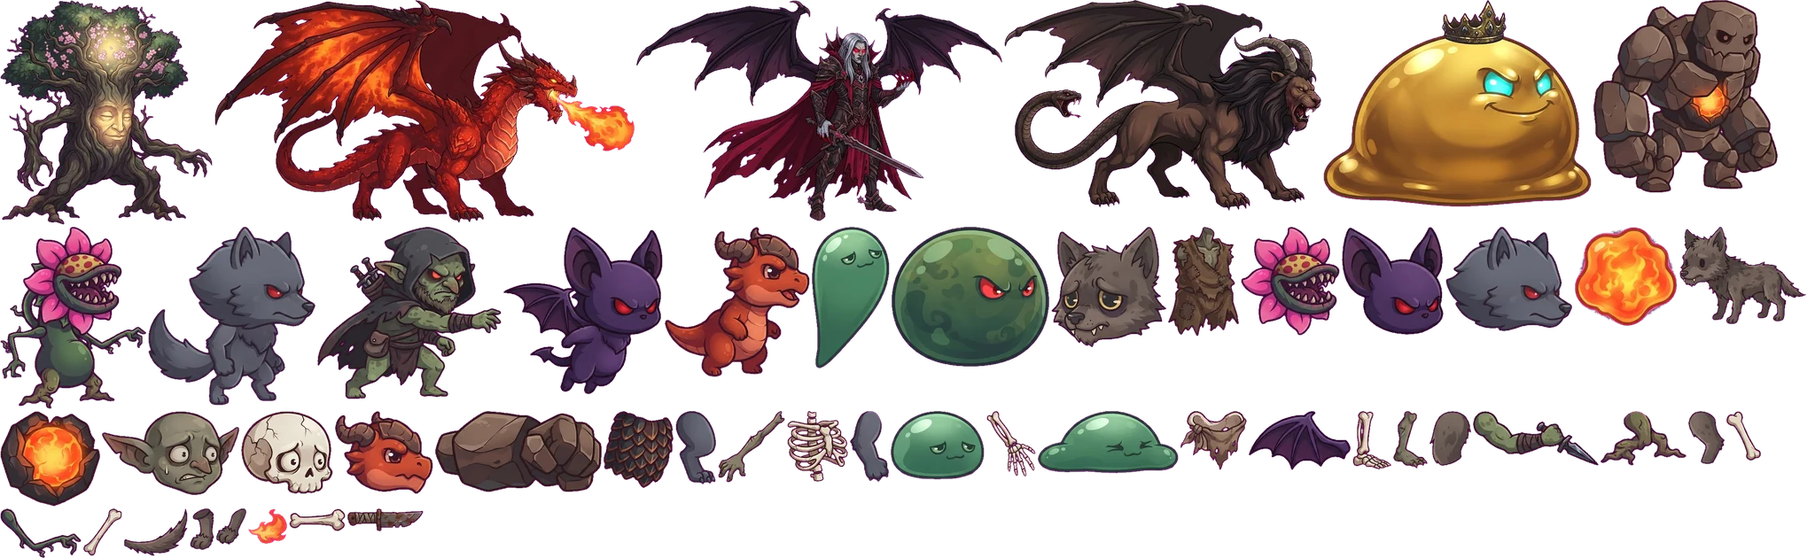
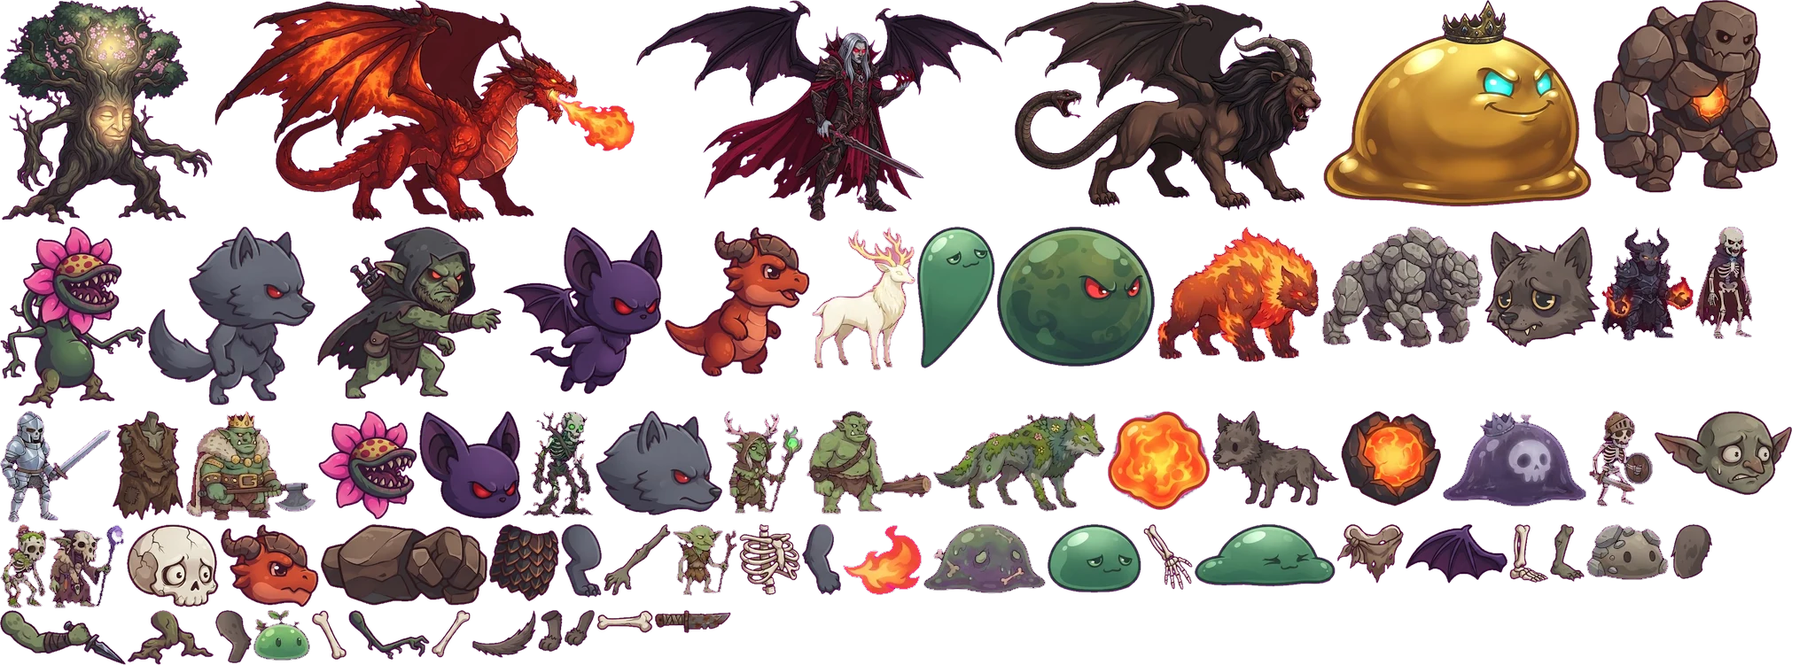
Bone to Beast: evolution trees by blood type (24 forms) replace part grafting
Claude-Session: https://claude.ai/code/session_01VuDiQoiwkAwkour2auYRX7

diff --git a/bone-to-beast/index.html b/bone-to-beast/index.html
@@ -31,9 +31,9 @@ button:focus-visible{outline:3px solid #fff;outline-offset:3px}
 .card b{font-size:18px}.card span{font-size:13px;color:var(--muted);line-height:1.35}
 .card em{font-style:normal;font-size:11px;font-weight:900;color:var(--c);letter-spacing:1px;text-transform:uppercase}
 .dex{display:flex;gap:10px;flex-wrap:wrap;justify-content:center;max-width:900px}
-.dex div{width:150px;background:var(--card);border:2px solid var(--line);border-radius:14px;padding:8px;font-size:12px;color:var(--muted)}
+.dex div{width:118px;background:var(--card);border:2px solid var(--line);border-radius:14px;padding:8px;font-size:12px;color:var(--muted)}
 .dex div b{display:block;color:var(--ink);font-size:14px}
-.dex canvas{width:80px;height:80px;display:block;margin:0 auto}
+.dex canvas{width:70px;height:70px;display:block;margin:0 auto}
 .keys{font-size:13px}
 .tc{position:fixed;bottom:max(8px,env(safe-area-inset-bottom));display:none;gap:12px}
 .tc button{width:72px;height:72px;border-radius:50%;border:3px solid rgba(255,255,255,.4);background:rgba(255,255,255,.12);color:#fff;font:inherit;font-weight:900;font-size:22px}
@@ -48,12 +48,12 @@ button:focus-visible{outline:3px solid #fff;outline-offset:3px}
 <div class="tc r" id="tcr" hidden><button data-k="S" type="button" aria-label="Skill" class="sk">SKILL</button><button data-k="J" type="button" aria-label="Jump" class="jp">▲</button><button data-k="A" type="button" aria-label="Attack" class="red big">⚔</button></div>
 <div class="over dim" id="title">
   <h1>BONE TO <span>BEAST</span></h1>
-  <p data-t="intro">Defeat monsters, drink their blood, graft their parts onto your body.<br>Find the right mix and awaken into a legend.</p>
+  <p data-t="intro">Defeat monsters and drink their blood.<br>The blood you gather decides what you evolve into.</p>
   <button class="btn alt" id="lang" type="button" style="font-size:14px;padding:6px 16px;min-height:36px">日本語 / English</button>
   <h3 data-t="Choose how you rise">Choose how you rise</h3>
   <div class="cards" id="starters"></div>
   <p class="keys" id="keysP"></p>
-  <h3><span data-t="Legends discovered">Legends discovered</span> <span id="dexN"></span></h3>
+  <h3><span data-t="Evolution book">Evolution book</span> <span id="dexN"></span></h3>
   <div class="dex" id="dex"></div>
   <p id="hi"></p>
 </div>
@@ -94,11 +94,42 @@ var ULT={
  tree:{name:'Divine Tree',col:'#7ad15a',hint:'Vine Arms + Root Legs + Bloom Crown',desc:'Roots strike from below and it heals. Skill: Sacred Bloom.',cond:function(P){return P.arms==='plantArms'&&P.legs==='plantLegs'&&P.head==='plantHead';}},
  chimera:{name:'Chimera',col:'#d9a441',hint:'Parts from 4 different creatures',desc:'Lion, goat and serpent in one. Skill: Roar.',cond:function(P){var s={};for(var k in P)s[PARTS[P[k]].sp]=1;return Object.keys(s).length>=4;}}};
 var ULTORDER=['dragon','vampire','orichalcum','tree','chimera'];
+var EL={grass:{col:'#6cc552',en:'Wild',ja:'森'},rock:{col:'#c08a52',en:'Stone',ja:'岩'},dark:{col:'#a46bff',en:'Dark',ja:'闇'}};
+var ELOF={slime:'grass',plant:'grass',golem:'rock',goblin:'rock',bat:'dark',wolf:'dark',drake:'dark'};
+var TREE={slime:{grass:['slGrass','tree'],rock:['slRock','orichalcum'],dark:['slZombie','slDeath']},bone:{grass:['skMoss','skWraith'],rock:['skKnight','skSteel'],dark:['skVamp','vampire']},
+  goblin:{grass:['gbForest','gbDruid'],rock:['gbHob','gbKing'],dark:['gbShaman','gbDemon']},beast:{grass:['bsForest','bsSacred'],rock:['bsRock','chimera'],dark:['bsFire','dragon']}};
+// id:[art,height,en,ja,descEn,descJa,hp,skill,stats]
+var FD={
+ slGrass:['fSlGrass',34,'Sprout Slime','草スライム','Heals over time. Skill: Bloom.','どんどん回復する。スキル：開花',50,'Bloom',{kind:'slam',dmg:16,rate:0.4,range:76,regen:4}],
+ slRock:['fSlRock',34,'Rock Slime','岩スライム','Hard shell, heavy body slams. Skill: Ground Slam.','かたい岩の体で体当たり。スキル：地面たたき',80,'Ground Slam',{kind:'slam',dmg:22,rate:0.5,range:82,armor:0.7}],
+ slZombie:['fSlZombie',36,'Zombie Slime','ゾンビスライム','Drains life with each hit. Skill: Screech.','攻撃で体力を吸う。スキル：超音波',45,'Screech',{kind:'slam',dmg:17,rate:0.38,range:76,life:0.12}],
+ slDeath:['fSlDeath',62,'Wraith Slime','死霊スライム','Souls hunt your foes. Skill: Soul Swarm.','魂が敵を追いかける。スキル：魂の群れ',220,'Bat Swarm',{kind:'slam',dmg:32,rate:0.32,range:118,life:0.2,armor:0.6,maxJumps:2}],
+ skMoss:['fSkMoss',64,'Moss Skeleton','苔ガイコツ','Vine whip with long reach. Heals.','長いツタのムチ。少し回復',45,'Bloom',{kind:'whip',dmg:15,rate:0.4,range:112,regen:3}],
+ skWraith:['fSkWraith',88,'Forest Wraith','森の亡者','Roots strike from below. Skill: Sacred Bloom.','地面から根で攻撃。スキル：聖なる開花',190,'Sacred Bloom',{kind:'roots',dmg:26,rate:0.4,range:390,regen:6,noKB:true}],
+ skKnight:['fSkKnight',66,'Bone Knight','骨騎士','Sword and shield. Takes less damage.','剣と盾。受けるダメージが減る',65,'Ground Slam',{kind:'swing',dmg:22,rate:0.4,range:82,armor:0.7}],
+ skSteel:['fSkSteel',84,'Steel Bone Knight','鋼の骨騎士','Huge sword swings, iron defense.','大剣で薙ぎ払う。鉄壁の守り',240,'Ground Slam',{kind:'swing',dmg:40,rate:0.42,range:104,kb:600,heavy:true,armor:0.5}],
+ skVamp:['fSkVamp',70,'Blood Bones','吸血骨','Fast claws that drain life. Double jump.','すばやい爪で血を吸う。2段ジャンプ',45,'Screech',{kind:'claw',dmg:16,rate:0.24,range:66,life:0.18,maxJumps:2,spd:270}],
+ gbForest:['fGbForest',56,'Forest Goblin','森ゴブリン','Staff whip with long reach.','杖のムチで遠くまで届く',45,'Bloom',{kind:'whip',dmg:14,rate:0.32,range:106,regen:2}],
+ gbDruid:['fGbDruid',74,'Goblin Druid','ゴブリンドルイド','Calls roots from the ground. Heals.','地面から根を呼ぶ。回復する',180,'Sacred Bloom',{kind:'roots',dmg:24,rate:0.38,range:400,regen:6}],
+ gbHob:['fGbHob',70,'Hobgoblin','ホブゴブリン','Big club, heavy hits.','大きなこん棒で重い一撃',75,'Ground Slam',{kind:'punch',dmg:26,rate:0.5,range:80,kb:520,heavy:true,armor:0.8,spd:220}],
+ gbKing:['fGbKing',86,'Goblin King','ゴブリンキング','Crushing axe. Skill: Roar.','斧で叩き潰す。スキル：咆哮',250,'Roar',{kind:'punch',dmg:44,rate:0.48,range:98,kb:650,heavy:true,armor:0.55,spd:230}],
+ gbShaman:['fGbShaman',66,'Goblin Shaman','呪術ゴブリン','Shoots dark magic bolts.','闇の魔法弾を撃つ',35,'Screech',{ranged:true,shot:'magic',dmg:15,rate:0.32}],
+ gbDemon:['fGbDemon',84,'Demon Goblin','魔王ゴブリン','Hurls fireballs. Skill: Meteor Dive.','火の玉を投げる。スキル：メテオダイブ',190,'Meteor Dive',{ranged:true,shot:'fireball',dmg:28,rate:0.24,armor:0.6,maxJumps:2}],
+ bsForest:['fBsForest',44,'Forest Wolf','森の獣','Fast bites, heals over time.','すばやく噛みつき、回復する',45,'Pounce',{kind:'bite',dmg:18,rate:0.28,range:72,regen:3,spd:310}],
+ bsSacred:['fBsSacred',84,'Sacred Stag','聖獣','Holy antlers. Skill: Sacred Bloom.','聖なる角で突く。スキル：聖なる開花',190,'Sacred Bloom',{kind:'maul',dmg:28,rate:0.24,range:84,regen:6,spd:330,maxJumps:2}],
+ bsRock:['fBsRock',50,'Stone Beast','岩の獣','Heavy bites, stone armor.','重い噛みつき、岩の鎧',80,'Ground Slam',{kind:'bite',dmg:24,rate:0.4,range:72,armor:0.7,heavy:true,spd:250}],
+ bsFire:['fBsFire',50,'Flame Beast','火の獣','Burning bites. Skill: Fire Breath.','燃える牙。スキル：火炎ブレス',50,'Fire Breath',{kind:'bite',dmg:20,rate:0.28,range:72,spd:310,burn:true}]};
+var FORMS={};for(var fk in FD){var d=FD[fk];FORMS[fk]={art:d[0],h:d[1],en:d[2],ja:d[3],den:d[4],dja:d[5],hp:d[6],skill:d[7],s:d[8]};}
+ULTORDER.forEach(function(u){FORMS[u]={ult:true,hp:0};});
+function fName(id){var f=FORMS[id];return f.ult?ULT[id].name:LANG==='ja'?f.ja:f.en;}
+function fDesc(id){var f=FORMS[id];return f.ult?ULT[id].desc:LANG==='ja'?f.dja:f.den;}
+function fCol(id){if(!id)return '#e9e4d4';if(FORMS[id].ult)return ULT[id].col;for(var st in TREE)for(var el in TREE[st])if(TREE[st][el].indexOf(id)>=0)return EL[el].col;return '#e9e4d4';}
+function fStage(id){for(var st in TREE)for(var el in TREE[st]){var i=TREE[st][el].indexOf(id);if(i>=0)return i+2;}return 1;}
 var ENEMY={slime:{hp:26,spd:60,dmg:8,pts:10,w:30,h:26},wolf:{hp:24,spd:170,dmg:10,pts:15,w:30,h:38},bat:{hp:14,spd:120,dmg:6,pts:12,w:28,h:26,fly:1},goblin:{hp:24,spd:90,dmg:7,pts:18,w:30,h:36},
   golem:{hp:90,spd:45,dmg:18,pts:40,w:50,h:62},plant:{hp:30,spd:30,dmg:8,pts:16,w:30,h:44},drake:{hp:34,spd:140,dmg:11,pts:24,w:34,h:34}};
 /*i18n*/
 var LANG=store.get('lang',(navigator.language||'').slice(0,2)==='ja'?'ja':'en');
-var JA={intro:'モンスターを倒して血を集め、その部位を自分の体に移植しよう。<br>組み合わせ次第で伝説の姿に覚醒する！','Choose how you rise':'はじめの姿をえらぶ','Legends discovered':'発見した伝説','Rise again':'もう一度','Change start':'キャラを変える',
+var JA={intro:'モンスターを倒して血を集めよう。<br>集めた血の種類で、進化先が変わる！','Choose how you rise':'はじめの姿をえらぶ','Legends discovered':'進化図鑑','Evolution book':'進化図鑑','Rise again':'もう一度','Change start':'キャラを変える',
  'Walk right →':'右へ進め →','Wave':'ウェーブ','Score':'スコア','GO →':'進め →','The blood calls…':'血が呼んでいる…','Choose a part to graft onto your body':'体に移植する部位をえらぼう','replaces':'交換：',
  'Your blood awakens…':'血が目覚める…','Your body is ready to become a legend':'伝説の姿に覚醒できる！','Legend':'伝説','[1] Awaken':'[1] 覚醒する','Not yet':'まだしない','Keep grafting parts':'部位の移植を続ける',
  'BLOOD':'血','✦ LEGEND AWAKENED':'✦ 伝説に覚醒','Half Beast':'半獣','Beast':'魔獣','No grafts':'移植なし','New best!':'自己ベスト！','Best':'ベスト','Hint: ':'ヒント：','Best score: ':'ベストスコア：',
@@ -131,7 +162,7 @@ function snd(k){try{AC=AC||new (window.AudioContext||window.webkitAudioContext)(
 var GROUND=0,GRAV=1900,G=null,keys={},tch={},hi=store.get('hi',0),dex=store.get('dex',{});
 function chunkPlats(ci){var r=ci*7919+13,out=[];function rnd(){r=(r*1664525+1013904223)>>>0;return r/4294967296;}
   var n=ci===0?1:2+Math.floor(rnd()*2);for(var i=0;i<n;i++)out.push({x:ci*900+120+rnd()*600,y:-(90+rnd()*130),w:120+rnd()*120});return out;}
-function newGame(st){G={t:0,state:'play',starter:st,ult:null,score:0,kills:0,en:[],shots:[],eshots:[],orbs:[],fx:[],texts:[],blood:{},need:5,parts:{},plats:[],chunks:0,cam:{x:0,y:-150},
+function newGame(st){G={t:0,state:'play',starter:st,ult:null,form:null,stage:1,el:null,score:0,kills:0,en:[],shots:[],eshots:[],orbs:[],fx:[],texts:[],blood:{},need:6,parts:{},plats:[],chunks:0,cam:{x:0,y:-150},
   wave:0,lock:null,shake:0,flash:0,banner:'',bannerT:0,history:[],
   p:{x:80,y:0,vx:0,vy:0,w:24,h:62,face:1,ground:true,jumps:0,hp:STARTERS[st].hp,max:STARTERS[st].hp,inv:0,atkT:0,combo:0,comboT:0,swing:0,cd:0,walk:0,glide:false,dash:0,hit:[],still:0}};
   for(var c=0;c<3;c++)addChunk();setBanner(L('Walk right →'));}
@@ -150,14 +181,15 @@ function stat(){var P=G.parts,st=G.starter,u=G.ult,s={spd:STARTERS[st].spd,jump:
   if(P.head==='wolfHead')s.bite=true;
   if(P.core==='slimeCore')s.regen+=3;if(P.core==='golemCore')s.armor=0.7;if(P.core==='drakeScales')s.armor=0.75;
   s.dmg*=1+Object.keys(P).length*0.08;
+  if(G.form&&!u){var fo=FORMS[G.form].s;for(var q in fo)s[q]=fo[q];}
   if(u==='dragon'){s.spd=260;s.maxJumps=99;s.kind='breath';s.dmg=16;s.rate=0.16;s.range=150;s.armor=0.6;}
   if(u==='vampire'){s.spd=310;s.maxJumps=3;s.kind='claw';s.dmg=20;s.rate=0.2;s.range=62;s.life=0.3;}
   if(u==='orichalcum'){s.spd=240;s.kind='slam';s.dmg=34;s.rate=0.5;s.range=92;s.armor=0.4;s.regen=4;s.jump=820;}
   if(u==='tree'){s.spd=180;s.kind='roots';s.dmg=26;s.rate=0.42;s.range=420;s.regen=8;s.noKB=true;s.armor=0.7;}
   if(u==='chimera'){s.spd=300;s.maxJumps=2;s.kind='maul';s.dmg=24;s.rate=0.24;s.range=70;s.life=0.1;s.jump=820;}
-  if(u)s.dmg*=1+G.wave*0.02;return s;}
+  if(G.stage===3)s.dmg*=1+G.wave*0.02;return s;}
 function maxHp(){var m=STARTERS[G.starter].hp+Object.keys(G.parts).length*10;if(G.parts.core==='golemCore')m+=60;if(G.parts.core==='drakeScales')m+=40;
-  if(G.ult)m+={dragon:160,vampire:90,orichalcum:260,tree:300,chimera:160}[G.ult];return m;}
+  if(G.ult)m+={dragon:160,vampire:90,orichalcum:260,tree:300,chimera:160}[G.ult];else if(G.form)m+=FORMS[G.form].hp;return m;}
 // ======================= waves =======================
 function startWave(){G.wave++;var w=G.wave,pool=['slime','bat','goblin'];if(w>=2)pool.push('wolf','plant');if(w>=3)pool.push('golem');if(w>=4)pool.push('drake');
   G.lock={x:G.cam.x,q:[],t:0};var boss=w%5===0,n=boss?5:4+Math.floor(w*1.7);
@@ -175,19 +207,20 @@ function hurtEnemy(e,dmg,kx,ky,quiet){if(e.dead)return;e.hp-=dmg;e.hit=0.1;e.vx+
   var s=stat();if(s.life&&!quiet){G.p.hp=Math.min(G.p.max,G.p.hp+dmg*s.life);}if(e.hp<=0)kill(e);}
 function kill(e){e.dead=true;G.kills++;G.score+=Math.round(ENEMY[e.sp].pts*(e.boss?10:1)*(1+G.wave*0.1));snd('kill');G.shake=Math.max(G.shake,e.boss?16:6);
   for(var i=0;i<16;i++)G.fx.push({x:e.x,y:e.y-e.h/2,vx:(Math.random()-0.5)*420,vy:-Math.random()*380,l:0.6,c:i%2?COL[e.sp]:'#d6334a',s:3+Math.random()*4,g:1});
-  if(G.ult)return; // after awakening, blood only feeds score
-  var n=e.boss?10:1;for(var k=0;k<n;k++)G.orbs.push({sp:e.sp,x:e.x,y:e.y-e.h/2,vx:(Math.random()-0.5)*300,vy:-200-Math.random()*200,t:0});}
+  if(G.stage>=3)return; // final form: blood only feeds score
+  if(G.stage===2&&ELOF[e.sp]!==G.el&&Math.random()<0.5)return;
+  var n=e.boss?10:1;for(var k=0;k<n;k++)G.orbs.push({sp:e.sp,el:ELOF[e.sp],x:e.x,y:e.y-e.h/2,vx:(Math.random()-0.5)*300,vy:-200-Math.random()*200,t:0});}
 function hurtHero(d,fromX,src){var p=G.p,s=stat();if(p.inv>0||p.dash>0)return;d*=s.armor;p.hp-=d;p.inv=0.8;if(!s.noKB){p.vx=(p.x<fromX?-1:1)*300;p.vy=-300;p.ground=false;}G.shake=10;G.flash=0.25;snd('hurt');
-  if(G.parts.core==='drakeScales'&&src&&!src.dead){src.burn=3;}
+  
   if(p.hp<=0){p.hp=0;over();}}
-function heroBox(){var p=G.p,h=G.ult?80:G.starter==='beast'?42:G.starter==='slime'?32:62;return {x:p.x,y:p.y,w:G.ult?40:p.w,h:h};}
+function heroBox(){var p=G.p,h=G.ult?80:G.form?Math.min(80,FORMS[G.form].h*0.85):G.starter==='beast'?42:G.starter==='slime'?32:62;return {x:p.x,y:p.y,w:G.ult||G.stage===3?40:p.w+4,h:h};}
 // ======================= hero actions =======================
 function jump(){var p=G.p,s=stat();if(p.ground){p.vy=-s.jump;p.ground=false;p.jumps=1;snd('jump');}else if(p.jumps<s.maxJumps){p.vy=-s.jump*(G.ult==='dragon'?0.6:0.9);p.jumps++;snd('jump');for(var i=0;i<6;i++)G.fx.push({x:p.x,y:p.y-20,vx:(Math.random()-0.5)*200,vy:Math.random()*120,l:0.3,c:G.ult?ULT[G.ult].col:COL.bat,s:3});}}
 function meleeHit(range,dmg,kb,up,hb,col,w){var p=G.p,b={x:p.x+p.face*(range*0.5+10),y:p.y-4,w:range+20,h:hb||heroBox().h+16};
   G.en.forEach(function(e){if(overlap(b,e))hurtEnemy(e,dmg,p.face*kb,up);});G.eshots.forEach(function(sh){if(Math.abs(sh.x-b.x)<b.w/2+sh.r&&Math.abs(sh.y-(b.y-b.h/2))<b.h/2+sh.r)sh.dead=1;});G.fx.push({arc:1,x:p.x,y:p.y-heroBox().h*0.55,face:p.face,R:range+10,l:0.16,L:0.16,c:col,w:w||1});}
 function attack(){var p=G.p,s=stat();if(p.atkT>0)return;p.atkT=s.rate;p.swing=0.2;if(p.comboT>0)p.combo=(p.combo+1)%3;else p.combo=0;p.comboT=0.6;var c3=p.combo===2;snd('swing');
   var k=s.kind;
-  if(s.ranged){G.shots.push({x:p.x+p.face*20,y:p.y-38,vx:p.face*620,vy:-30,dmg:s.dmg,l:0.9,r:6,kind:'dagger',hitL:[]});return;}
+  if(s.ranged){G.shots.push({x:p.x+p.face*20,y:p.y-heroBox().h*0.6,vx:p.face*(s.shot?520:620),vy:s.shot?0:-30,dmg:s.dmg,l:0.9,r:s.shot?9:6,kind:s.shot||'dagger',hitL:[],pierce:s.shot==='fireball'?2:0});return;}
   if(k==='breath'){snd('fire');for(var i=0;i<3;i++)G.shots.push({x:p.x+p.face*36,y:p.y-62,vx:p.face*(420+i*80),vy:(i-1)*60+40,dmg:s.dmg*0.6,l:0.4,r:12,kind:'fire',hitL:[],pierce:3});return;}
   if(k==='roots'){var best=null,bd=s.range;G.en.forEach(function(e){var d=Math.abs(e.x-p.x);if(d<bd&&e.y>-200){bd=d;best=e;}});if(!best){p.atkT=0.1;return;}
     G.fx.push({spike:1,x:best.x,y:GROUND,l:0.4,L:0.4,c:'#7a5a3a'});hurtEnemy(best,s.dmg,0,-520);best.ground=false;return;}
@@ -195,10 +228,11 @@ function attack(){var p=G.p,s=stat();if(p.atkT>0)return;p.atkT=s.rate;p.swing=0.
   if(k==='whip'){meleeHit(s.range,s.dmg*(c3?1.3:1),180,-100,40,'#5fae4a',0.7);return;}
   if(k==='claw'||k==='maul'){meleeHit(s.range,s.dmg*(c3?1.5:1),c3?460:200,c3?-300:-80,null,k==='claw'?'#ff3b5c':'#ffb347',1.2);
     if(k==='maul'&&c3){G.fx.push({ring:1,x:p.x+p.face*50,y:p.y-30,r:0,R:90,l:0.3,L:0.3,c:'#ff8c3a'});G.en.forEach(function(e){if(Math.abs(e.x-(p.x+p.face*50))<100)hurtEnemy(e,s.dmg*0.6,p.face*200,-200);});}return;}
+  if(s.burn)G.en.forEach(function(e){if(Math.abs(e.x-p.x)<s.range+20)e.burn=Math.max(e.burn||0,1.5);});
   var bite=s.bite&&c3,dm=s.dmg*(bite?1.6:1)*(c3?1.3:1);
   meleeHit(s.range,dm,s.kb*(c3?1.5:1),s.heavy||c3?-260:-80,null,s.heavy?'#ffb070':bite||k==='bite'?'#ff6b80':'#e9e4d4',s.heavy?1.8:1);
   if(bite){p.hp=Math.min(p.max,p.hp+dm*0.25);G.texts.push({x:p.x,y:p.y-80,t:'+'+Math.round(dm*0.25),l:0.6,c:'#ff6b80'});}}
-function skillName(){var P=G.parts,u=G.ult,st=G.starter;if(u)return {dragon:'Meteor Dive',vampire:'Bat Swarm',orichalcum:'Golden Roll',tree:'Sacred Bloom',chimera:'Roar'}[u];
+function skillName(){var P=G.parts,u=G.ult,st=G.starter;if(G.form&&!u)return FORMS[G.form].skill;if(u)return {dragon:'Meteor Dive',vampire:'Bat Swarm',orichalcum:'Golden Roll',tree:'Sacred Bloom',chimera:'Roar'}[u];
   return P.head==='batHead'?'Screech':P.head==='drakeHead'?'Fire Breath':P.head==='plantHead'?'Bloom':P.arms==='golemArms'?'Ground Slam':P.arms==='goblinArms'||st==='goblin'?'Firebomb':P.legs==='wolfLegs'||st==='beast'?'Pounce':st==='slime'?'Regrow':'Bone Toss';}
 function skill(){var p=G.p,s=stat();if(p.cd>0||G.state!=='play')return;var n=skillName();snd('skill');
   if(n==='Screech'){p.cd=6;G.fx.push({cone:1,x:p.x,y:p.y-50,face:p.face,l:0.35,L:0.35});G.en.forEach(function(e){var dx=(e.x-p.x)*p.face;if(dx>0&&dx<340&&Math.abs((e.y-e.h/2)-(p.y-45))<160){e.stun=2.2;hurtEnemy(e,s.dmg*0.6,p.face*120,-60);}});}
@@ -217,30 +251,24 @@ function skill(){var p=G.p,s=stat();if(p.cd>0||G.state!=='play')return;var n=ski
 function slam(R,mul,col){var p=G.p,s=stat();p.slam=false;G.shake=18;G.fx.push({ring:1,x:p.x,y:p.y,r:0,R:R,l:0.35,L:0.35,c:col});
   if(p.meteor){p.meteor=false;snd('fire');for(var i=0;i<16;i++)G.fx.push({x:p.x,y:p.y-10,vx:(Math.random()-0.5)*600,vy:-Math.random()*400,l:0.7,c:i%2?'#ff8c3a':'#ffd34f',s:5,g:1});}
   G.en.forEach(function(e){if(Math.abs(e.x-p.x)<R+10&&Math.abs(e.y-p.y)<140){e.stun=1.2;hurtEnemy(e,s.dmg*mul,(e.x>p.x?1:-1)*380,-420);}});}
-// ======================= blood → grafts → awakening =======================
-function addBlood(sp){G.blood[sp]=(G.blood[sp]||0)+1;var tot=0;for(var k in G.blood)tot+=G.blood[k];if(tot>=G.need&&G.state==='play')offer();}
-function offer(){var sps=Object.keys(G.blood).sort(function(a,b){return G.blood[b]-G.blood[a];}),opts=[];
-  sps.forEach(function(sp){(BYSP[sp]||[]).forEach(function(k){if(G.parts[PARTS[k].slot]!==k&&opts.length<3&&opts.indexOf(k)<0)opts.push(k);});});
-  if(!opts.length){G.blood={};return;}
-  G.state='graft';$('graftT').textContent=L('The blood calls…');$('graftP').textContent=L('Choose a part to graft onto your body');var el=$('cards');el.innerHTML='';
-  opts.forEach(function(k,i){var Pt=PARTS[k],pp={};for(var s in G.parts)pp[s]=G.parts[s];pp[Pt.slot]=k;
-    var b=card(COL[Pt.sp],function(g){drawBody(g,{x:0,y:0,face:1,walk:0.6,swing:0,ground:true,h:62},pp,G.starter,null);},
-      '<em>'+L(Pt.slot)+(G.parts[Pt.slot]?' · '+L('replaces')+' '+PARTS[G.parts[Pt.slot]].name:'')+'</em><b>'+Pt.name+'</b><span>'+Pt.desc+'</span>'+hintFor(pp)+'<em>['+(i+1)+']</em>');
-    b.addEventListener('click',function(){graft(k);});el.appendChild(b);});
+// ======================= blood → evolution =======================
+function addBlood(el){G.blood[el]=(G.blood[el]||0)+1;var tot=0;for(var k in G.blood)tot+=G.blood[k];if(tot>=G.need&&G.state==='play')offer();}
+function formCard(id,i,lbl){var col=fCol(id);return card(col,function(g){drawFormFit(g,id,62,90);},'<em>'+lbl+'</em><b>'+fName(id)+'</b><span>'+fDesc(id)+'</span><em>['+(i+1)+']</em>');}
+function drawFormFit(g,id,maxH,maxW){if(FORMS[id].ult){var A=ULTART[id],a=ATLAS[A[0]],f=Math.min(maxH*1.4/A[1],maxW/(a[2]/a[3]*A[1]));g.scale(f,f);drawUlt(g,{x:0,y:0,face:1,walk:0.5,swing:0,ground:true},id,true);return;}
+  var F=FORMS[id],b=ATLAS[F.art],sc=Math.min(maxH*1.25/F.h,maxW/(b[2]/b[3]*F.h),1.3);g.scale(sc,sc);drawForm(g,{x:0,y:0,face:1,walk:0.5,swing:0,ground:true},id);}
+function offer(){var el=$('cards');el.innerHTML='';G.state='graft';
+  if(G.stage===1){var els=Object.keys(G.blood).sort(function(a,b){return G.blood[b]-G.blood[a];});
+    $('graftT').textContent=L('The blood calls…');$('graftP').textContent=LANG==='ja'?'どの血で進化する？':'Which blood will you evolve with?';
+    els.forEach(function(e,i){var id=TREE[G.starter][e][0],b=formCard(id,i,(LANG==='ja'?EL[e].ja+'の血':EL[e].en+' blood')+' ×'+G.blood[e]);b.addEventListener('click',function(){evolve(id,e);});el.appendChild(b);});}
+  else{var id2=TREE[G.starter][G.el][1];$('graftT').textContent=L('Your blood awakens…');$('graftP').textContent=L('Your body is ready to become a legend');
+    var b2=formCard(id2,0,L('Legend'));b2.classList.add('ult');b2.addEventListener('click',function(){evolve(id2,G.el);});el.appendChild(b2);
+    var n=document.createElement('button');n.type='button';n.className='card';n.style.minHeight='auto';n.innerHTML='<b>'+L('Not yet')+'</b><span>'+(LANG==='ja'?'今の姿で戦う':'Stay as you are')+'</span><em>[2]</em>';
+    n.addEventListener('click',function(){G.blood={};G.need+=8;$('graft').hidden=true;G.state='play';last=performance.now();});el.appendChild(n);}
   $('graft').hidden=false;focusFirst(el);}
-function hintFor(pp){var u=ultFor(pp,G.starter);return u?'<em style="color:'+ULT[u].col+'">✦ '+(LANG==='ja'?ULT[u].name+'に覚醒できる':'unlocks '+ULT[u].name)+'</em>':'';}
-function ultFor(P,st){for(var i=0;i<ULTORDER.length;i++)if(ULT[ULTORDER[i]].cond(P,st))return ULTORDER[i];return null;}
-function graft(k){var Pt=PARTS[k],p=G.p;G.parts[Pt.slot]=k;G.history.push(k);G.blood={};G.need=Math.round(G.need*1.3+3);var m=maxHp();p.max=m;p.hp=Math.min(m,p.hp+m*0.3);snd('graft');
-  burst(p.x,p.y-30,COL[Pt.sp],40);setBanner(LANG==='ja'?Pt.name+'を移植！':Pt.name+' grafted!');$('graft').hidden=true;
-  var u=ultFor(G.parts,G.starter);if(u){offerAwaken(u);return;}G.state='play';last=performance.now();}
-function offerAwaken(u){G.state='graft';var U=ULT[u];$('graftT').textContent=L('Your blood awakens…');$('graftP').textContent=L('Your body is ready to become a legend');var el=$('cards');el.innerHTML='';
-  var b=card(U.col,function(g){var A=ULTART[u],a=ATLAS[A[0]],f=Math.min(90/A[1],100/(a[2]/a[3]*A[1]));g.scale(f,f);drawUlt(g,{x:0,y:0,face:1,walk:0.5,swing:0,ground:true},u,true);},'<em>'+L('Legend')+'</em><b>'+U.name+'</b><span>'+U.desc+'</span><em>'+L('[1] Awaken')+'</em>');b.classList.add('ult');
-  b.addEventListener('click',function(){awaken(u);});el.appendChild(b);
-  var n=document.createElement('button');n.type='button';n.className='card';n.style.minHeight='auto';n.innerHTML='<b>'+L('Not yet')+'</b><span>'+L('Keep grafting parts')+'</span><em>[2]</em>';n.addEventListener('click',function(){$('graft').hidden=true;G.state='play';last=performance.now();});el.appendChild(n);
-  $('graft').hidden=false;focusFirst(el);}
-function awaken(u){G.ult=u;var p=G.p;p.max=maxHp();p.hp=p.max;snd('awaken');dex[u]=1;store.set('dex',dex);G.shake=24;
-  for(var i=0;i<4;i++)setTimeout(function(){burst(p.x,p.y-40,ULT[u].col,40);},i*120);G.fx.push({ring:1,x:p.x,y:p.y-40,r:0,R:420,l:0.8,L:0.8,c:ULT[u].col});
-  setBanner(LANG==='ja'?ULT[u].name+'に覚醒！':ULT[u].name.toUpperCase()+' AWAKENS');$('graft').hidden=true;G.state='play';last=performance.now();}
+function evolve(id,el){var p=G.p;G.form=id;G.el=el;G.stage=fStage(id);G.ult=FORMS[id].ult?id:null;G.history.push(id);G.blood={};G.need=16;
+  p.max=maxHp();p.hp=p.max;dex[id]=1;store.set('dex',dex);var col=fCol(id);snd(G.stage===3?'awaken':'graft');G.shake=G.stage===3?24:10;
+  for(var i=0;i<(G.stage===3?4:2);i++)setTimeout(function(){burst(p.x,p.y-40,col,40);},i*120);G.fx.push({ring:1,x:p.x,y:p.y-30,r:0,R:G.stage===3?420:220,l:0.8,L:0.8,c:col});
+  setBanner(LANG==='ja'?fName(id)+'に進化！':fName(id).toUpperCase()+'!');$('graft').hidden=true;G.state='play';last=performance.now();}
 function burst(x,y,c,n){for(var i=0;i<n;i++)G.fx.push({x:x,y:y,vx:(Math.random()-0.5)*500,vy:(Math.random()-0.5)*500,l:0.8,c:c,s:4+Math.random()*4});}
 function card(col,drawFn,html){var b=document.createElement('button');b.type='button';b.className='card';b.style.setProperty('--c',col);
   var c=document.createElement('canvas');c.width=c.height=260;b.appendChild(c);var g=c.getContext('2d');g.translate(130,225);g.scale(2.4,2.4);drawFn(g);b.insertAdjacentHTML('beforeend',html);return b;}
@@ -250,7 +278,7 @@ function update(dt){var p=G.p,s=stat();G.t+=dt;p.max=maxHp();var hb=heroBox();
   var mx=(keys.ArrowLeft||keys.KeyA||tch.L?-1:0)+(keys.ArrowRight||keys.KeyD||tch.R?1:0);
   if(p.dash>0){p.dash-=dt;G.en.forEach(function(e){if(p.hit.indexOf(e)<0&&overlap(hb,e)){p.hit.push(e);hurtEnemy(e,s.dmg*(G.ult==='orichalcum'?1.5:2),p.face*500,-300);}});if(Math.random()<0.7)G.fx.push({x:p.x,y:p.y-hb.h/2,vx:0,vy:0,l:0.2,c:G.ult==='orichalcum'?'rgba(243,198,74,.7)':'rgba(200,210,230,.6)',s:14});}
   else{var acc=p.ground?3000:1800;if(mx){p.vx+=mx*acc*dt;p.face=mx;}else p.vx*=Math.pow(p.ground?0.0005:0.2,dt);p.vx=Math.max(-s.spd,Math.min(s.spd,p.vx));}
-  var holdJump=keys.ArrowUp||keys.KeyW||keys.Space||tch.J,wings=G.parts.back==='batWings'||G.ult==='dragon'||G.ult==='vampire';p.glide=wings&&holdJump&&p.vy>0&&!p.ground;
+  var holdJump=keys.ArrowUp||keys.KeyW||keys.Space||tch.J,wings=G.ult==='dragon'||G.ult==='vampire'||G.form==='skVamp';p.glide=wings&&holdJump&&p.vy>0&&!p.ground;
   p.vy+=GRAV*dt*(p.glide?0.18:1);if(p.glide)p.vy=Math.min(p.vy,G.ult==='dragon'?60:140);
   var oy=p.y;p.x+=p.vx*dt;p.y+=p.vy*dt;
   var minX=G.lock?G.lock.x-W/Z/2+20:Math.max(20,G.cam.x-W/Z/2+20),maxX=G.lock?lockR():1e9;p.x=Math.max(minX,Math.min(maxX,p.x));p.y=Math.max(p.y,-H/Z*0.85);
@@ -281,7 +309,7 @@ function update(dt){var p=G.p,s=stat();G.t+=dt;p.max=maxHp();var hb=heroBox();
     var eoy=e.y;e.x+=e.vx*dt;e.y+=e.vy*dt;e.ground=false;if(e.y>=GROUND){e.y=GROUND;e.vy=0;e.ground=true;}
     if(!E.fly)G.plats.forEach(function(pl){if(e.vy>=0&&eoy<=pl.y&&e.y>=pl.y&&e.x>pl.x&&e.x<pl.x+pl.w){e.y=pl.y;e.vy=0;e.ground=true;}});
     if(G.lock){var lo=G.lock.x-W/Z/2+20,hi2=lockR()+15;if(!e.inside&&e.x>lo&&e.x<hi2)e.inside=1;if(e.inside)e.x=Math.max(lo,Math.min(hi2,e.x));else e.x=Math.max(lo-80,Math.min(hi2+80,e.x));}
-    var bouncy=G.parts.core==='slimeCore'||G.ult==='orichalcum'||G.starter==='slime'&&!G.ult;
+    var bouncy=G.starter==='slime';
     if(bouncy&&p.vy>200&&Math.abs(p.x-e.x)<e.w/2+12&&p.y>e.y-e.h-8&&p.y<e.y-e.h+22){p.vy=-650;hurtEnemy(e,s.dmg*1.2,0,-100);}
     else if(e.stun<=0&&overlap(hb,e))hurtHero(e.dmg,e.x,e);});
   G.en=G.en.filter(function(e){return !e.dead;});
@@ -295,7 +323,7 @@ function update(dt){var p=G.p,s=stat();G.t+=dt;p.max=maxHp();var hb=heroBox();
   G.shots=G.shots.filter(function(x){return !x.dead;});
   G.eshots.forEach(function(sh){if(sh.g)sh.vy+=GRAV*0.4*dt;sh.x+=sh.vx*dt;sh.y+=sh.vy*dt;sh.l-=dt;if(Math.abs(sh.x-p.x)<hb.w/2+sh.r&&sh.y>p.y-hb.h&&sh.y<p.y){sh.dead=1;hurtHero(sh.dmg,sh.x);}if(sh.y>GROUND||sh.l<=0)sh.dead=1;});
   G.eshots=G.eshots.filter(function(x){return !x.dead;});
-  G.orbs.forEach(function(o){o.t+=dt;if(o.t<0.4){o.vy+=GRAV*0.5*dt;}else{var tx=p.x-o.x,ty=(p.y-hb.h/2)-o.y,d=Math.hypot(tx,ty)||1,sp=500+o.t*300;o.vx=tx/d*sp;o.vy=ty/d*sp;if(d<22){o.dead=1;snd('orb');addBlood(o.sp);}}
+  G.orbs.forEach(function(o){o.t+=dt;if(o.t<0.4){o.vy+=GRAV*0.5*dt;}else{var tx=p.x-o.x,ty=(p.y-hb.h/2)-o.y,d=Math.hypot(tx,ty)||1,sp=500+o.t*300;o.vx=tx/d*sp;o.vy=ty/d*sp;if(d<22){o.dead=1;snd('orb');addBlood(o.el);}}
     o.x+=o.vx*dt;o.y+=o.vy*dt;if(o.y>GROUND-4&&o.t<0.4){o.y=GROUND-4;o.vy*=-0.4;}});
   G.orbs=G.orbs.filter(function(o){return !o.dead;});
   G.fx.forEach(function(f){f.l-=dt;if(f.ring)f.r=f.R*(1-f.l/f.L);else if(!f.arc&&!f.cone&&!f.spike){f.x+=(f.vx||0)*dt;f.y+=(f.vy||0)*dt;if(f.g)f.vy+=GRAV*0.6*dt;}});G.fx=G.fx.filter(function(f){return f.l>0;});
@@ -308,7 +336,7 @@ function rr(g,x,y,w,h,r){g.beginPath();g.moveTo(x+r,y);g.arcTo(x+w,y,x+w,y+h,r);
 function limb(g,x1,y1,x2,y2,w,col,joint){g.strokeStyle=col;g.lineWidth=w;g.lineCap='round';g.beginPath();g.moveTo(x1,y1);g.lineTo(x2,y2);g.stroke();if(joint){g.fillStyle=col;g.beginPath();g.arc(x1,y1,w*0.75,0,7);g.arc(x2,y2,w*0.75,0,7);g.fill();}}
 function shade(hex,a){var n=parseInt(hex.slice(1),16);return 'rgb('+[n>>16,(n>>8)&255,n&255].map(function(v){return Math.max(0,Math.min(255,v+a));}).join(',')+')';}
 // ======================= art (atlas) =======================
-var ATLAS={"uTree":[0,0,240,254],"uDragon":[242,0,474,252],"uVampire":[718,0,413,250],"uChimera":[1133,0,358,238],"uOrichalcum":[1493,0,303,234],"eGolem":[1798,0,208,218],"ePlant":[0,256,165,206],"eWolf":[167,256,189,202],"eGoblin":[358,256,208,195],"eBat":[568,256,180,189],"eDrake":[750,256,164,170],"slTall":[916,256,88,160],"eSlime":[1006,256,178,158],"bsHead":[1186,256,130,136],"gbTorso":[1318,256,80,124],"plantHead":[1400,256,112,123],"batHead":[1514,256,115,122],"wolfHead":[1631,256,143,118],"slimeCore":[1776,256,117,113],"bsFull":[1895,256,143,110],"golemCore":[0,464,113,108],"gbHead":[115,464,155,95],"skSkull":[272,464,104,94],"drakeHead":[378,464,111,94],"golemFist":[491,464,188,92,7.3,45.4,181.0,49.5],"drakeScales":[681,464,79,87],"wolfLeg":[762,464,46,83,16.2,2.3,33.4,79.1],"gbFore":[810,464,76,81,70.0,4.3,5.2,73.4],"skRibs":[888,464,69,80],"wolfArm":[959,464,44,80,20.1,2.3,30.9,75.6],"slRest":[1005,464,106,78],"skFore":[1113,464,56,74,6.3,3.9,46.5,67.5],"slFlat":[1171,464,159,71],"skPelvis":[1332,464,75,67],"batWing":[1409,464,115,67],"skShin":[1526,464,44,66,12.5,1.8,33.6,62.9],"gbShin":[1572,464,39,65,17.2,2.0,24.4,61.2],"bsBackU":[1613,464,47,62,31.0,3.0,12.8,58.0],"goblinArm":[1662,464,142,62,3.5,11.9,132.6,54.8],"plantRoots":[1806,464,97,62],"bsFrontU":[1905,464,41,60,9.5,2.5,23.5,57.0],"skThigh":[1948,464,39,56,5.4,4.4,33.2,52.2],"plantVine":[0,574,92,56,2.7,5.9,85.5,42.6],"skUpper":[94,574,44,54,38.7,2.9,4.4,48.9],"bsTail":[140,574,72,54],"bsBackL":[214,574,28,47,18.8,1.2,9.6,44.6],"bsFrontL":[244,574,34,41,30.8,1.8,3.6,36.2],"fire":[280,574,44,40],"skClub":[326,574,64,26,2.1,15.4,61.3,11.4],"gbKnife":[392,574,86,26,1.7,11.3,81.0,6.1]},ART=new Image(),ARTOK=false;ART.src='art/atlas.webp';
+var ATLAS={"uTree":[0,0,240,254],"uDragon":[242,0,474,252],"uVampire":[718,0,413,250],"uChimera":[1133,0,358,238],"uOrichalcum":[1493,0,303,234],"eGolem":[1798,0,208,218],"ePlant":[0,256,165,206],"eWolf":[167,256,189,202],"eGoblin":[358,256,208,195],"eBat":[568,256,180,189],"eDrake":[750,256,164,170],"fBsSacred":[916,256,117,163],"slTall":[1035,256,88,160],"eSlime":[1125,256,178,158],"fBsFire":[1305,256,184,153],"fBsRock":[1491,256,182,137],"bsHead":[1675,256,130,136],"fGbDemon":[1807,256,104,130],"fSkVamp":[1913,256,65,127],"fSkSteel":[0,464,125,126],"gbTorso":[127,464,80,124],"fGbKing":[209,464,148,124],"plantHead":[359,464,112,123],"batHead":[473,464,115,122],"fSkWraith":[590,464,80,121],"wolfHead":[672,464,143,118],"fGbDruid":[817,464,90,117],"fGbHob":[909,464,142,117],"fBsForest":[1053,464,194,114],"slimeCore":[1249,464,117,113],"bsFull":[1368,464,143,110],"golemCore":[1513,464,113,108],"fSlDeath":[1628,464,162,108],"fSkKnight":[1792,464,73,108],"gbHead":[1867,464,155,95],"fSkMoss":[0,592,53,95],"fGbShaman":[55,592,86,95],"skSkull":[143,592,104,94],"drakeHead":[249,592,111,94],"golemFist":[362,592,188,92,7.3,45.4,181.0,49.5],"drakeScales":[552,592,79,87],"wolfLeg":[633,592,46,83,16.2,2.3,33.4,79.1],"gbFore":[681,592,76,81,70.0,4.3,5.2,73.4],"fGbForest":[759,592,73,81],"skRibs":[834,592,69,80],"wolfArm":[905,592,44,80,20.1,2.3,30.9,75.6],"fire":[951,592,89,80],"fSlZombie":[1042,592,138,79],"slRest":[1182,592,106,78],"skFore":[1290,592,56,74,6.3,3.9,46.5,67.5],"slFlat":[1348,592,159,71],"skPelvis":[1509,592,75,67],"batWing":[1586,592,115,67],"skShin":[1703,592,44,66,12.5,1.8,33.6,62.9],"gbShin":[1749,592,39,65,17.2,2.0,24.4,61.2],"fSlRock":[1790,592,93,63],"bsBackU":[1885,592,47,62,31.0,3.0,12.8,58.0],"goblinArm":[0,689,142,62,3.5,11.9,132.6,54.8],"plantRoots":[144,689,97,62],"bsFrontU":[243,689,41,60,9.5,2.5,23.5,57.0],"fSlGrass":[286,689,64,57],"skThigh":[352,689,39,56,5.4,4.4,33.2,52.2],"plantVine":[393,689,92,56,2.7,5.9,85.5,42.6],"skUpper":[487,689,44,54,38.7,2.9,4.4,48.9],"bsTail":[533,689,72,54],"bsBackL":[607,689,28,47,18.8,1.2,9.6,44.6],"bsFrontL":[637,689,34,41,30.8,1.8,3.6,36.2],"skClub":[673,689,64,26,2.1,15.4,61.3,11.4],"gbKnife":[739,689,86,26,1.7,11.3,81.0,6.1]},ART=new Image(),ARTOK=false;ART.src='art/atlas.webp?v=3';
 function aspr(k){return ATLAS[k];}
 // draw a limb image so that its end points land on A and B
 function seg(g,k,ax,ay,bx,by,ext){var a=ATLAS[k];if(!a||!ARTOK)return;var x0=a[4],y0=a[5],x1=a[6],y1=a[7],L0=Math.hypot(x1-x0,y1-y0),L=Math.hypot(bx-ax,by-ay)||0.01,s=L/L0*(ext||1);
@@ -318,7 +346,7 @@ function spr(g,k,x,y,h,fx,fy,rot,sx,sy){var a=ATLAS[k];if(!a||!ARTOK)return;var 
 function tube(g,ax,ay,bx,by,w,col){g.lineCap='round';g.strokeStyle='#2b2620';g.lineWidth=w+1.6;g.beginPath();g.moveTo(ax,ay);g.lineTo(bx,by);g.stroke();g.strokeStyle=col;g.lineWidth=w;g.stroke();}
 var HEADS={wolfHead:[30,0.45,0.6],batHead:[30,0.5,0.6],plantHead:[33,0.45,0.6],drakeHead:[27,0.4,0.6]};
 var CORES={golemCore:16,slimeCore:15,drakeScales:20};
-function drawBody(g,p,P,st,u){if(u){drawUlt(g,p,u,false);return;}if(st==='beast'){drawQuad(g,p,P);return;}if(st==='slime'){drawSlime(g,p,P);return;}drawHumanoid(g,p,P,st);}
+function drawBody(g,p,P,st,u){if(u&&FORMS[u]&&!FORMS[u].ult){drawForm(g,p,u);return;}if(u){drawUlt(g,p,u,false);return;}if(st==='beast'){drawQuad(g,p,P);return;}if(st==='slime'){drawSlime(g,p,P);return;}drawHumanoid(g,p,P,st);}
 function shadow(g,w){g.fillStyle='rgba(0,0,0,.35)';g.beginPath();g.ellipse(0,0,w,4,0,0,7);g.fill();}
 function wingsArt(g,x,y,glide,ground,sc){var fl=glide?0.15:Math.sin(performance.now()/90)*0.35*(ground?0.3:1);sc=sc||1;
   spr(g,'batWing',x+3,y,24*sc,0.9,0.3,-0.25-fl,1,1);spr(g,'batWing',x,y-2,26*sc,0.9,0.3,0.1+fl*0.6,1,1);}
@@ -368,6 +396,12 @@ function drawQuad(g,p,P){var wk=p.walk||0,run=p.ground?Math.sin(wk*2.4):0.5,bob=
   if(P.arms){var sw=p.swing>0?-0.5:0.6;armSlot(g,P,12,-26-bob,12+Math.cos(sw)*16,-26-bob+Math.sin(sw)*16,p.swing>0);}
   if(P.head)headArt(g,P.head,22,-34-bob);
   g.restore();}
+function drawForm(g,p,id){var F=FORMS[id],t=performance.now()/1000,wk=p.walk||0,sl=id.indexOf('sl')===0,quad=id.indexOf('bs')===0;g.save();g.translate(p.x,p.y);g.scale(p.face,1);
+  var a=ATLAS[F.art];shadow(g,Math.min(36,F.h*(a?a[2]/a[3]:1)*0.42));
+  if(sl){var q=!p.ground?(p.vy<0?1.15:0.95):p.landT>0?0.75:1+Math.sin(t*6+wk*3)*0.05;g.scale(1/q,q);spr(g,F.art,0,1,F.h,0.5,1);}
+  else{var bob=p.ground?Math.abs(Math.sin(wk*(quad?2.4:2)))*(quad?2.5:2):Math.sin(t*6)*2,tilt=p.swing>0?(quad?0.08:0.14):p.ground?Math.sin(wk*2)*0.03:-0.05,br=1+Math.sin(t*2.5)*0.015;
+    g.translate(0,-bob);g.rotate(tilt);g.scale(1,br);spr(g,F.art,0,1,F.h,0.5,1);}
+  g.restore();}
 var ULTART={dragon:['uDragon',78,0.5,0.98],vampire:['uVampire',96,0.5,0.98],orichalcum:['uOrichalcum',58,0.5,0.97],tree:['uTree',104,0.5,0.98],chimera:['uChimera',74,0.5,0.98]};
 function drawUlt(g,p,u,card){var t=performance.now()/1000,A=ULTART[u],wk=p.walk||0,fly=!p.ground&&(u==='dragon'||u==='vampire');g.save();g.translate(p.x,p.y);g.scale(p.face,1);shadow(g,u==='dragon'||u==='chimera'?40:26);
   var bob=p.ground?Math.abs(Math.sin(wk*2))*2:Math.sin(t*6)*3,br=1+Math.sin(t*2.5)*0.02,tilt=p.swing>0?0.12:fly?-0.05:0;
@@ -405,13 +439,15 @@ function draw(){ctx.setTransform(DPR,0,0,DPR,0,0);if(!G){ctx.fillStyle='#15111b'
     else if(hsh===3){ctx.strokeStyle='#3a2f45';ctx.lineWidth=3;ctx.beginPath();ctx.moveTo(x+40,GROUND);ctx.lineTo(x+40,GROUND-60);ctx.moveTo(x+40,GROUND-40);ctx.lineTo(x+56,GROUND-56);ctx.moveTo(x+40,GROUND-30);ctx.lineTo(x+26,GROUND-46);ctx.stroke();}}
   G.plats.forEach(function(pl){if(pl.x+pl.w<vl||pl.x>vr)return;ctx.fillStyle='#4a3d55';rr(ctx,pl.x,pl.y,pl.w,14,6);ctx.fill();ctx.fillStyle='#5e4f6b';rr(ctx,pl.x,pl.y,pl.w,5,3);ctx.fill();});
   if(G.lock){ctx.fillStyle='rgba(214,51,74,.25)';ctx.fillRect(G.lock.x-W/Z/2,GROUND-400,6,400);ctx.fillRect(G.lock.x+W/Z/2-6,GROUND-400,6,400);}
-  G.orbs.forEach(function(o){ctx.fillStyle='#d6334a';ctx.shadowColor='#ff4060';ctx.shadowBlur=10;ctx.beginPath();ctx.arc(o.x,o.y,5,0,7);ctx.fill();ctx.shadowBlur=0;ctx.fillStyle=COL[o.sp];ctx.beginPath();ctx.arc(o.x,o.y,2.2,0,7);ctx.fill();});
+  G.orbs.forEach(function(o){ctx.fillStyle='#d6334a';ctx.shadowColor='#ff4060';ctx.shadowBlur=10;ctx.beginPath();ctx.arc(o.x,o.y,5,0,7);ctx.fill();ctx.shadowBlur=0;ctx.fillStyle=EL[o.el].col;ctx.beginPath();ctx.arc(o.x,o.y,2.6,0,7);ctx.fill();});
   G.en.forEach(drawEnemy);
-  var p=G.p;if(!(p.inv>0&&Math.floor(p.inv*20)%2)){ctx.save();ctx.shadowColor=G.ult?ULT[G.ult].col:'rgba(255,230,180,.35)';ctx.shadowBlur=G.ult?18:12;drawBody(ctx,p,G.parts,G.starter,G.ult);ctx.restore();}
+  var p=G.p;if(!(p.inv>0&&Math.floor(p.inv*20)%2)){ctx.save();ctx.shadowColor=G.form?fCol(G.form):'rgba(255,230,180,.35)';ctx.shadowBlur=G.stage===3?18:12;drawBody(ctx,p,G.parts,G.starter,G.form);ctx.restore();}
   G.shots.forEach(function(s){ctx.save();ctx.translate(s.x,s.y);
     if(s.kind==='bone'){ctx.rotate(G.t*14);spr(ctx,'skClub',0,0,8,0.5,0.5);}
     else if(s.kind==='bomb'){ctx.fillStyle='#ff8c3a';ctx.beginPath();ctx.arc(0,0,s.r,0,7);ctx.fill();ctx.fillStyle='#ffd34f';ctx.beginPath();ctx.arc(3,-7,3,0,7);ctx.fill();}
     else if(s.kind==='fire'){var k=s.l/0.6;ctx.globalAlpha=Math.min(1,k*1.5);ctx.rotate(Math.atan2(s.vy,s.vx));spr(ctx,'fire',0,0,s.r*2.6*(1.4-k*0.5),0.6,0.5,0,-1,1);}
+    else if(s.kind==='magic'){ctx.fillStyle='#b77bff';ctx.shadowColor='#a46bff';ctx.shadowBlur=14;ctx.beginPath();ctx.arc(0,0,6,0,7);ctx.fill();ctx.shadowBlur=0;}
+    else if(s.kind==='fireball'){ctx.rotate(Math.atan2(s.vy,s.vx));spr(ctx,'fire',0,0,22,0.6,0.5,0,-1,1);}
     else if(s.kind==='seed'){ctx.fillStyle='#9be07a';ctx.beginPath();ctx.ellipse(0,0,5,3,Math.atan2(s.vy,s.vx),0,7);ctx.fill();}
     else if(s.kind==='bat'){ctx.fillStyle='#b3203a';ctx.beginPath();ctx.arc(0,0,4,0,7);ctx.fill();var fw=Math.sin(G.t*30)*0.6;[-1,1].forEach(function(q){ctx.save();ctx.scale(q,1);ctx.rotate(fw);ctx.beginPath();ctx.moveTo(2,0);ctx.lineTo(12,-5);ctx.lineTo(9,3);ctx.fill();ctx.restore();});}
     else{ctx.rotate(Math.atan2(s.vy,s.vx));spr(ctx,'gbKnife',0,0,6,0.5,0.5);}ctx.restore();});
@@ -427,32 +463,32 @@ function draw(){ctx.setTransform(DPR,0,0,DPR,0,0);if(!G){ctx.fillStyle='#15111b'
   var vg=ctx.createRadialGradient(W/2,H/2,Math.min(W,H)*0.4,W/2,H/2,Math.max(W,H)*0.8);vg.addColorStop(0,'rgba(0,0,0,0)');vg.addColorStop(1,'rgba(0,0,0,.5)');ctx.fillStyle=vg;ctx.fillRect(0,0,W,H);
   if(G.flash>0){ctx.fillStyle='rgba(214,51,74,'+(G.flash*0.8)+')';ctx.fillRect(0,0,W,H);}
   hud();}
-function formName(){if(G.ult)return ULT[G.ult].name;var n=Object.keys(G.parts).length,b=STARTERS[G.starter].name;return n===0?b:n<3?(LANG==='ja'?'まざり'+b:b+' Chimera'):n<5?L('Half Beast'):L('Beast');}
+function formName(){if(G.form)return fName(G.form);var n=Object.keys(G.parts).length,b=STARTERS[G.starter].name;return n===0?b:n<3?(LANG==='ja'?'まざり'+b:b+' Chimera'):n<5?L('Half Beast'):L('Beast');}
 function hud(){var p=G.p,x=16,y=14,k=Math.max(0.55,Math.min(1,Math.min(H/560,W/720)));ctx.save();ctx.scale(k,k);ctx.fillStyle='rgba(20,15,26,.78)';rr(ctx,x,y,330,92,16);ctx.fill();
-  ctx.save();rr(ctx,x+8,y+8,76,76,12);ctx.fillStyle='#2a2333';ctx.fill();ctx.clip();ctx.translate(x+44,y+80);var sc=G.ult?0.62:G.starter==='beast'?0.95:1;ctx.scale(sc,sc);drawBody(ctx,{x:0,y:0,face:1,walk:G.t*2,swing:0,ground:true,h:62},G.parts,G.starter,G.ult);ctx.restore();
-  ctx.textAlign='left';ctx.fillStyle=G.ult?ULT[G.ult].col:'#f4efe6';ctx.font='900 16px Trebuchet MS,sans-serif';ctx.fillText(formName(),x+94,y+24);
+  ctx.save();rr(ctx,x+8,y+8,76,76,12);ctx.fillStyle='#2a2333';ctx.fill();ctx.clip();ctx.translate(x+44,y+80);var sc=G.form?Math.min(1,62/(FORMS[G.form].h||(G.ult?100:62)))*(G.ult?0.62:1):G.starter==='beast'?0.95:1;if(G.form&&!G.ult){var fa=ATLAS[FORMS[G.form].art];sc=Math.min(66/FORMS[G.form].h,66/(fa[2]/fa[3]*FORMS[G.form].h));}ctx.scale(sc,sc);drawBody(ctx,{x:0,y:0,face:1,walk:G.t*2,swing:0,ground:true,h:62},G.parts,G.starter,G.form);ctx.restore();
+  ctx.textAlign='left';ctx.fillStyle=G.form?fCol(G.form):'#f4efe6';ctx.font='900 16px Trebuchet MS,sans-serif';ctx.fillText(formName(),x+94,y+24);
   ctx.fillStyle='rgba(255,255,255,.12)';rr(ctx,x+94,y+32,224,14,7);ctx.fill();ctx.fillStyle='#e8445a';rr(ctx,x+94,y+32,224*Math.max(0,p.hp/p.max),14,7);ctx.fill();
   ctx.fillStyle='#fff';ctx.font='800 11px Trebuchet MS,sans-serif';ctx.fillText(Math.ceil(p.hp)+' / '+p.max,x+100,y+43);
-  var bx=x+94,bw=224;if(!G.ult){var tot=0;for(var k in G.blood)tot+=G.blood[k];ctx.fillStyle='rgba(255,255,255,.12)';rr(ctx,bx,y+54,bw,10,5);ctx.fill();
-    var off=0;Object.keys(G.blood).forEach(function(s){var w2=bw*Math.min(1,G.blood[s]/G.need);ctx.fillStyle=COL[s];ctx.fillRect(bx+off,y+54,Math.max(0,Math.min(w2,bw-off)),10);off+=w2;});
+  var bx=x+94,bw=224;if(G.stage<3){var tot=0;for(var k in G.blood)tot+=G.blood[k];ctx.fillStyle='rgba(255,255,255,.12)';rr(ctx,bx,y+54,bw,10,5);ctx.fill();
+    var off=0;Object.keys(G.blood).forEach(function(s){var w2=bw*Math.min(1,G.blood[s]/G.need);ctx.fillStyle=EL[s].col;ctx.fillRect(bx+off,y+54,Math.max(0,Math.min(w2,bw-off)),10);off+=w2;});
     ctx.fillStyle='#c9bdd4';ctx.font='800 11px Trebuchet MS,sans-serif';ctx.fillText(L('BLOOD')+' '+tot+'/'+G.need,bx,y+80);}
-  else{ctx.fillStyle=ULT[G.ult].col;ctx.font='900 11px Trebuchet MS,sans-serif';ctx.fillText(L('✦ LEGEND AWAKENED'),bx,y+68);}
+  else{ctx.fillStyle=fCol(G.form);ctx.font='900 11px Trebuchet MS,sans-serif';ctx.fillText(L('✦ LEGEND AWAKENED'),bx,y+68);}
   ctx.textAlign='right';ctx.fillStyle=p.cd<=0?'#ffd34f':'#9b90a8';ctx.font='900 13px Trebuchet MS,sans-serif';ctx.fillText((p.cd<=0?'[K] ':'')+L(skillName())+(p.cd>0?' '+p.cd.toFixed(1)+'s':''),x+318,y+80);
   ctx.fillStyle='#f4efe6';ctx.font='900 22px Trebuchet MS,sans-serif';ctx.fillText(L('Wave')+' '+G.wave,W/k-16,36);ctx.fillStyle='#c9bdd4';ctx.font='800 15px Trebuchet MS,sans-serif';ctx.fillText(L('Score')+' '+G.score,W/k-16,58);
   ctx.restore();
-  if(G.bannerT>0){ctx.globalAlpha=Math.min(1,G.bannerT*1.5);ctx.textAlign='center';ctx.font='900 '+Math.round(Math.min(W,H)*0.065)+'px Trebuchet MS,sans-serif';ctx.fillStyle='#f4efe6';ctx.shadowColor=G.ult?ULT[G.ult].col:'#d6334a';ctx.shadowBlur=20;ctx.fillText(G.banner,W/2,H*0.3);ctx.shadowBlur=0;ctx.globalAlpha=1;}}
+  if(G.bannerT>0){ctx.globalAlpha=Math.min(1,G.bannerT*1.5);ctx.textAlign='center';ctx.font='900 '+Math.round(Math.min(W,H)*0.065)+'px Trebuchet MS,sans-serif';ctx.fillStyle='#f4efe6';ctx.shadowColor=G.form?fCol(G.form):'#d6334a';ctx.shadowBlur=20;ctx.fillText(G.banner,W/2,H*0.3);ctx.shadowBlur=0;ctx.globalAlpha=1;}}
 // ======================= title / flow =======================
 function buildTitle(){var el=$('starters');el.innerHTML='';Object.keys(STARTERS).forEach(function(k,i){var S=STARTERS[k];
     var b=card(k==='bone'?'#e9e4d4':COL[k==='beast'?'wolf':k],function(g){g.scale(k==='beast'?1.15:1,k==='beast'?1.15:1);drawBody(g,{x:0,y:0,face:1,walk:0.6,swing:0,ground:true,h:62},{},k,null);},'<b>'+S.name+'</b><span>'+S.desc+'</span><em>['+(i+1)+']</em>');
     b.addEventListener('click',function(){start(k);});el.appendChild(b);});
-  var dx=$('dex');dx.innerHTML='';var n=0;ULTORDER.forEach(function(u){var U=ULT[u],got=!!dex[u];if(got)n++;var d=document.createElement('div'),c=document.createElement('canvas');c.width=c.height=160;var g=c.getContext('2d');g.translate(80,150);g.scale(0.95,0.95);
-    if(!got){g.filter='brightness(0)';g.globalAlpha=0.6;}drawUlt(g,{x:0,y:0,face:1,walk:0.5,swing:0,ground:true},u,true);d.appendChild(c);
-    d.insertAdjacentHTML('beforeend','<b style="color:'+(got?U.col:'#f4efe6')+'">'+(got?U.name:'???')+'</b>'+(got?U.desc:L('Hint: ')+U.hint));dx.appendChild(d);});
-  $('dexN').textContent=n+' / '+ULTORDER.length;$('hi').textContent=hi?L('Best score: ')+hi:'';}
+  var dx=$('dex');dx.innerHTML='';var n=0,tot=0;Object.keys(TREE).forEach(function(st){Object.keys(EL).forEach(function(e){TREE[st][e].forEach(function(id){tot++;var got=!!dex[id];if(got)n++;
+    var d=document.createElement('div'),c=document.createElement('canvas');c.width=c.height=140;var g=c.getContext('2d');g.translate(70,128);g.scale(0.85,0.85);if(!got){g.filter='brightness(0)';g.globalAlpha=0.55;}drawFormFit(g,id,90,150);d.appendChild(c);
+    d.insertAdjacentHTML('beforeend','<b style="color:'+(got?fCol(id):'#f4efe6')+'">'+(got?fName(id):'???')+'</b>'+STARTERS[st].name+' + '+(LANG==='ja'?EL[e].ja+'の血':EL[e].en+' blood'));dx.appendChild(d);});});});
+  $('dexN').textContent=n+' / '+tot;$('hi').textContent=hi?L('Best score: ')+hi:'';}
 function over(){G.state='dead';if(G.score>hi){hi=G.score;store.set('hi',hi);}
   setTimeout(function(){$('deadT').textContent=LANG==='ja'?'ウェーブ'+G.wave+'で倒れた…':'You fell on wave '+G.wave;$('deadP').textContent=(LANG==='ja'?'スコア '+G.score+' ・ '+G.kills+'体たおした':'Score '+G.score+' · '+G.kills+' defeated')+(G.score>=hi?' · '+L('New best!'):' · '+L('Best')+' '+hi);
-    var el=$('deadForm');el.innerHTML='';var b=card(G.ult?ULT[G.ult].col:'#e9e4d4',function(g){if(G.ult){g.scale(0.7,0.7);}drawBody(g,{x:0,y:0,face:1,walk:0.6,swing:0,ground:true,h:62},G.parts,G.starter,G.ult);},
-      '<b>'+formName()+'</b><span>'+(G.history.length?G.history.map(function(k){return PARTS[k].name;}).join(' → '):L('No grafts'))+'</span>');b.style.pointerEvents='none';el.appendChild(b);
+    var el=$('deadForm');el.innerHTML='';var b=card(fCol(G.form),function(g){if(G.form)drawFormFit(g,G.form,62,90);else drawBody(g,{x:0,y:0,face:1,walk:0.6,swing:0,ground:true,h:62},{},G.starter,null);},
+      '<b>'+formName()+'</b><span>'+[STARTERS[G.starter].name].concat(G.history.map(fName)).join(' → ')+'</span>');b.style.pointerEvents='none';el.appendChild(b);
     $('dead').hidden=false;['tcl','tcr'].forEach(function(i){$(i).hidden=true;});},900);}
 var last=performance.now(),acc=0,STEP=1/60;
 function frame(now){acc+=Math.min(0.1,(now-last)/1000);last=now;while(acc>=STEP){if(G&&G.state==='play')update(STEP);acc-=STEP;}draw();if(G)drawStick();requestAnimationFrame(frame);}

diff --git a/index.html b/index.html
@@ -44,7 +44,7 @@ footer{font-size:.8rem;color:var(--muted)}
     <li><div><span class="tag">ゲーム（英語）</span><h2>Star Shift</h2></div><p>敵の波をよけて撃つシューティング。波ごとに強化を1つ選んで、自分の機体を育てます。</p><a href="star-shift/">あそぶ</a></li>
     <li><div><span class="tag">ゲーム（英語）</span><h2>Time Flock</h2></div><p>動いたときだけ時間が進むシューティング。倒した敵が仲間になって、群れが大きくなります。</p><a href="time-flock/">あそぶ</a></li>
     <li><div><span class="tag">ゲーム（英語）</span><h2>Twin Steps</h2></div><p>1回の操作で2つの盤面のコマが同時に動くパズル。両方を同時にゴールへ。全48面。</p><a href="twin-steps/">あそぶ</a></li>
-    <li><div><span class="tag">ゲーム（英語・試作）</span><h2>Bone to Beast</h2></div><p>ガイコツ・ゴブリン・スライム・ケモノから選んでスタート。敵の部位を移植して混ざり、ドラゴン・バンパイア・オリハルコンスライム・神樹・キメラへ覚醒する横スクロールアクション。</p><a href="bone-to-beast/">あそぶ</a></li>
+    <li><div><span class="tag">ゲーム（英語・試作）</span><h2>Bone to Beast</h2></div><p>ガイコツ・ゴブリン・スライム・ケモノから選んでスタート。倒した敵の血（森・岩・闇）で進化先が変わる横スクロールアクション。進化は全24種。</p><a href="bone-to-beast/">あそぶ</a></li>
     <li><div><span class="tag">ゲーム（英語）</span><h2>Mandala by Numbers</h2></div><p>数字の色でぬっていく、マンダラの塗り絵。全40枚、毎回ちがう模様。</p><a href="mandala-paint/">あそぶ</a></li>
     <li><div><span class="tag">ゲーム（英語）</span><h2>Maze Dash</h2></div><p>60ステージの迷路タイムアタック。暗闇ステージと毎日の5問つき。</p><a href="maze-dash/">あそぶ</a></li>
   </ul>
